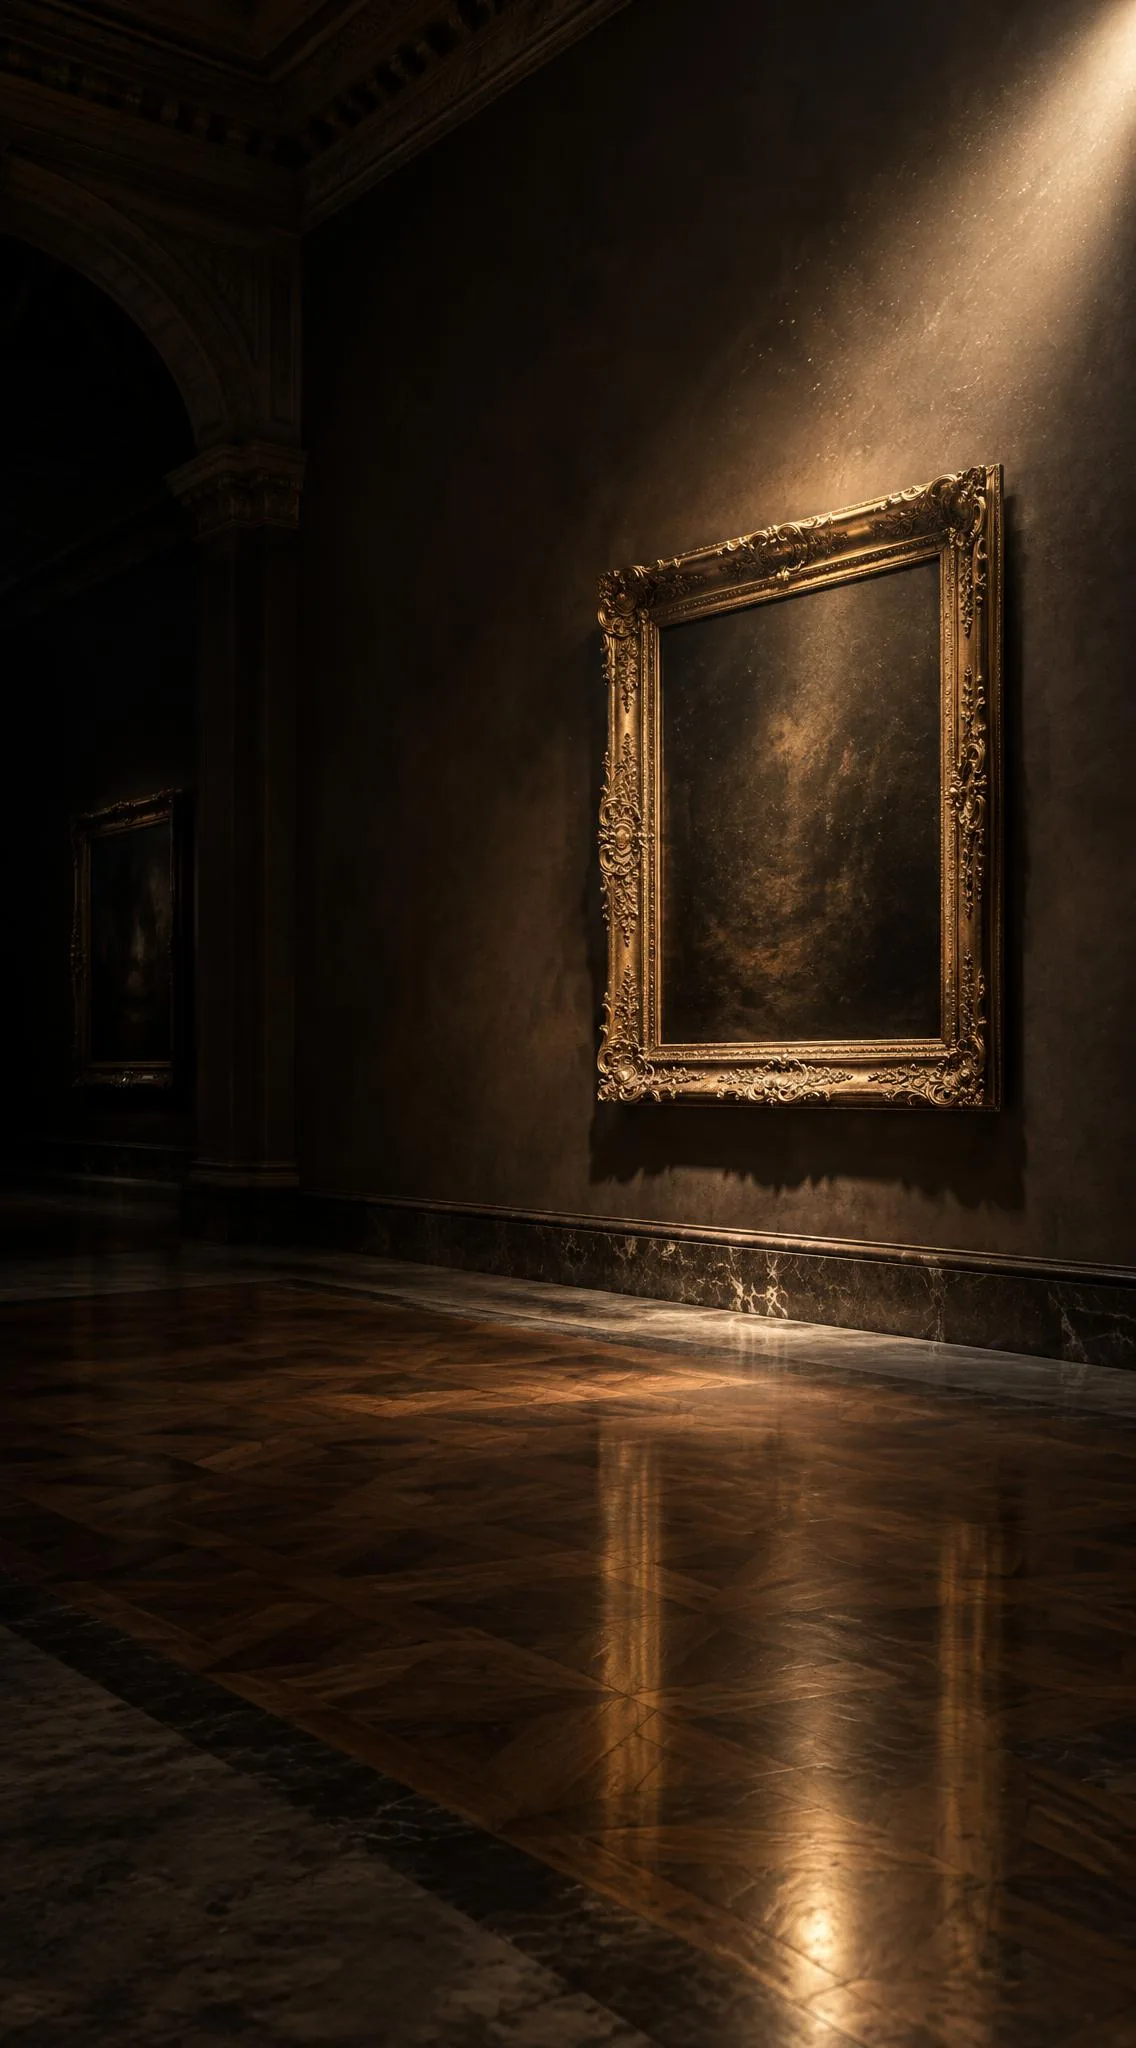
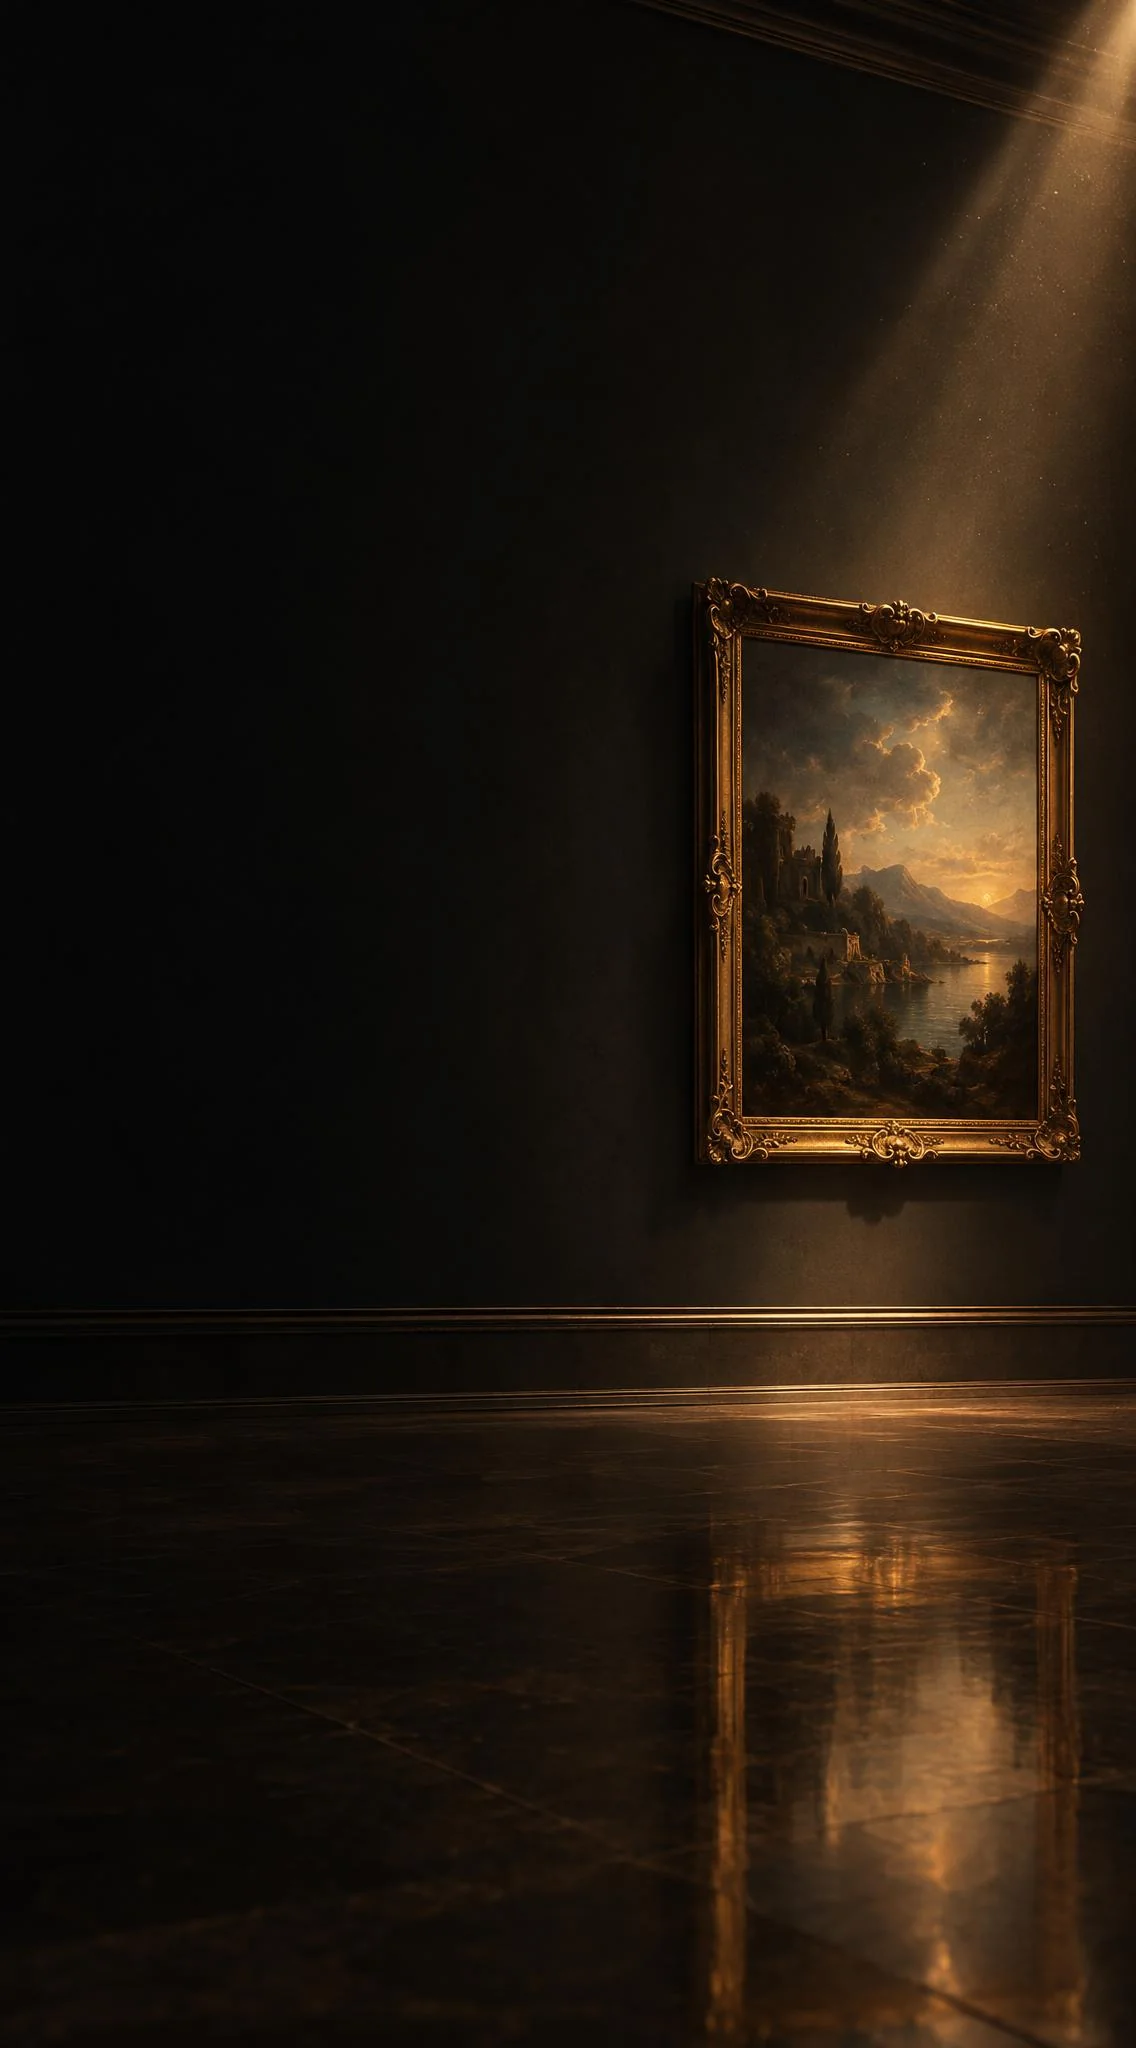
Обложка: новая фотография зала + текст больше не заезжает на раму
Фотография. Из трёх вариантов выбран тот, что резче всех на экране телефона: видимая часть
946×2048 при нужных 1170×2532 — растяжение ×1,24 (у двух других ×1,84, они мягче). WebP 87 КБ
против прежних 136 КБ. Рама на нём стоит правее — с 63 % ширины вместо 53 %.

Текст на обложке (только телефон; на большом экране свободно 763 px, там всё как было):
- заголовок 48 px физически не влезал: самая длинная строка 319 px при свободных 246 px. Поставлен
  --t5 (28 px → 186 px) и ограничение ширины 62 %, жёсткий перенос из разметки на телефоне выключен;
- лид опущен на шаг (--t4 → --t3) и тоже в 62 %; список работ — на шаг (--t3 → --t2);
- подпись стала меткой: --t1, вразрядку, бронзой. Иерархия: 12 · 28 · 16.

Проверка по пикселям снимка (рама начинается с x=270 из 412):
подпись 25…154 · заголовок 25…206 · лид 25…234 · кнопка 25…172 · список 25…263 — всё левее рамы.

Не тронуто: залы, этикетки, пыль, стекло, жесты.

diff --git a/style.css b/style.css
@@ -126,6 +126,24 @@ body.show-plan .plan{display:flex}
    влезать целиком: на окне 360×700 она выходила 824 px, и последний пункт списка уходил
    на 76 px под срез. Сжимаем вертикальный ритм — только шагами шкалы, только на низких окнах.
    На высоких экранах не меняется ничего. */
+/* Обложка на телефоне: рама на фотографии начинается с 63 % ширины, под текст остаётся 246 px.
+   Крупный заголовок (48 px — самая длинная строка 319 px) в это не влезает и заезжает на раму.
+   Ставим --t5 (28 px → строка 186 px) и опускаем поддерживающий текст на шаг, чтобы иерархия
+   держалась: 12 · 28 · 16. На большом экране свободно 763 px, там всё остаётся как было. */
+@media (max-width:767px){
+  /* max-width: жёсткий перенос из разметки убран, строки сами ложатся в 62 % ширины —
+     так самая длинная строка (186 px при --t5) не доходит до рамы, которая начинается с 63 % */
+  .cover__lead h1{font-size:var(--t5);max-width:62%}
+  /* перенос из разметки на телефоне выключаем: строки сами ложатся в 62 % ширины */
+  .cover__lead h1 br{display:none}
+  .cover__offer{font-size:var(--t3);max-width:62%}
+  /* список работ тоже уходил за раму на 18 px: шаг вниз по шкале убирает это без потери читаемости */
+  .index__t{font-size:var(--t2)}
+  /* подпись — метка, а не текст: иначе она одного кегля с лидом и иерархия рушится */
+  .cover__lead .eyebrow{font:500 var(--t1)/1 var(--sans);letter-spacing:.24em;
+    text-transform:uppercase;color:rgba(201,161,94,.9)}
+}
+
 @media (max-height:800px){
   .cover__inner{padding-top:var(--s6);padding-bottom:var(--s4);gap:var(--s4)}
   .index a{padding:var(--s2) 0}

diff --git a/index.html b/index.html
@@ -23,9 +23,9 @@
 <link rel="preconnect" href="https://fonts.googleapis.com">
 <link rel="preconnect" href="https://fonts.gstatic.com" crossorigin>
 <link href="https://fonts.googleapis.com/css2?family=Prata&family=Inter:wght@300;400;500;600&display=swap" rel="stylesheet">
-<link rel="preload" as="image" href="img/hero-phone.webp" media="(max-width:767px)">
+<link rel="preload" as="image" href="img/hero-phone.webp?v=2" media="(max-width:767px)">
 <link rel="preload" as="image" href="img/hero-desk.webp" media="(min-width:768px)">
-<link rel="stylesheet" href="style.css?v=17">
+<link rel="stylesheet" href="style.css?v=18">
 </head>
 <body>
 
@@ -39,7 +39,7 @@
   <div class="cover__media">
     <picture>
       <source media="(min-width:768px)" srcset="img/hero-desk.webp">
-      <img src="img/hero-phone.webp" alt="Тёмный музейный зал: золочёная рама в луче света, тёплый отблеск на паркете" fetchpriority="high">
+      <img src="img/hero-phone.webp?v=2" alt="Тёмный музейный зал: золочёная рама в луче света, тёплый отблеск на паркете" fetchpriority="high">
     </picture>
     <!-- пыль в свете зала: рисуется из data.js (блок effects), без неё страница выглядит как раньше -->
     <canvas id="coverDust" aria-hidden="true"></canvas>
